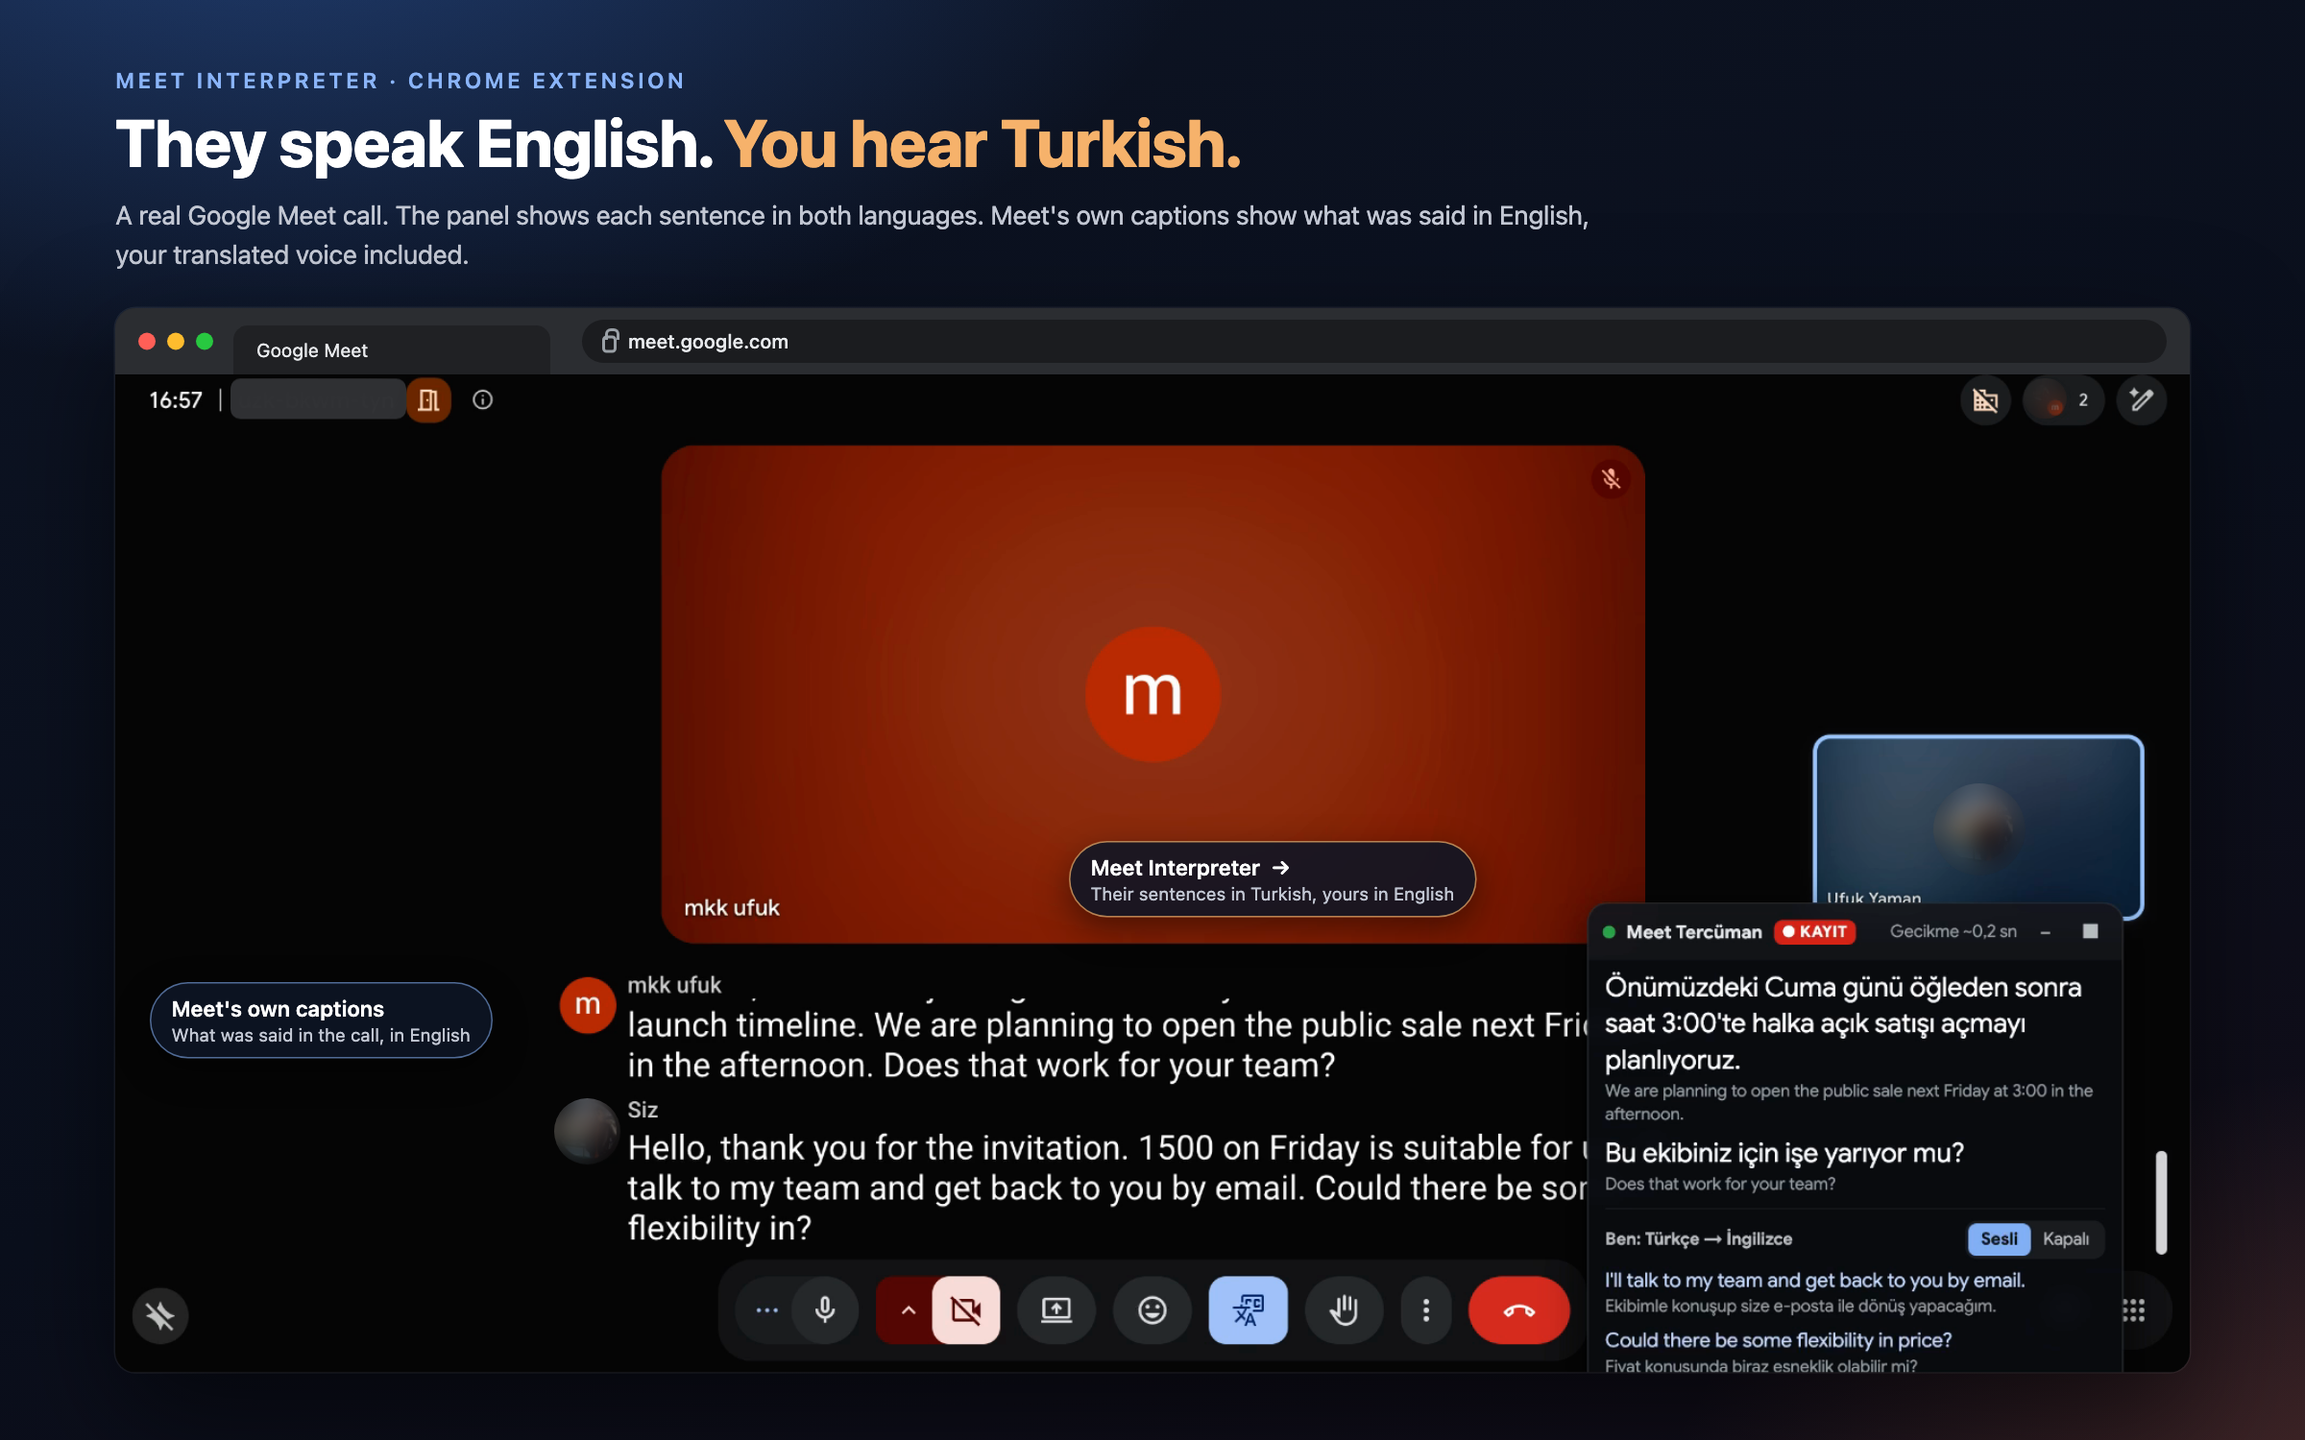
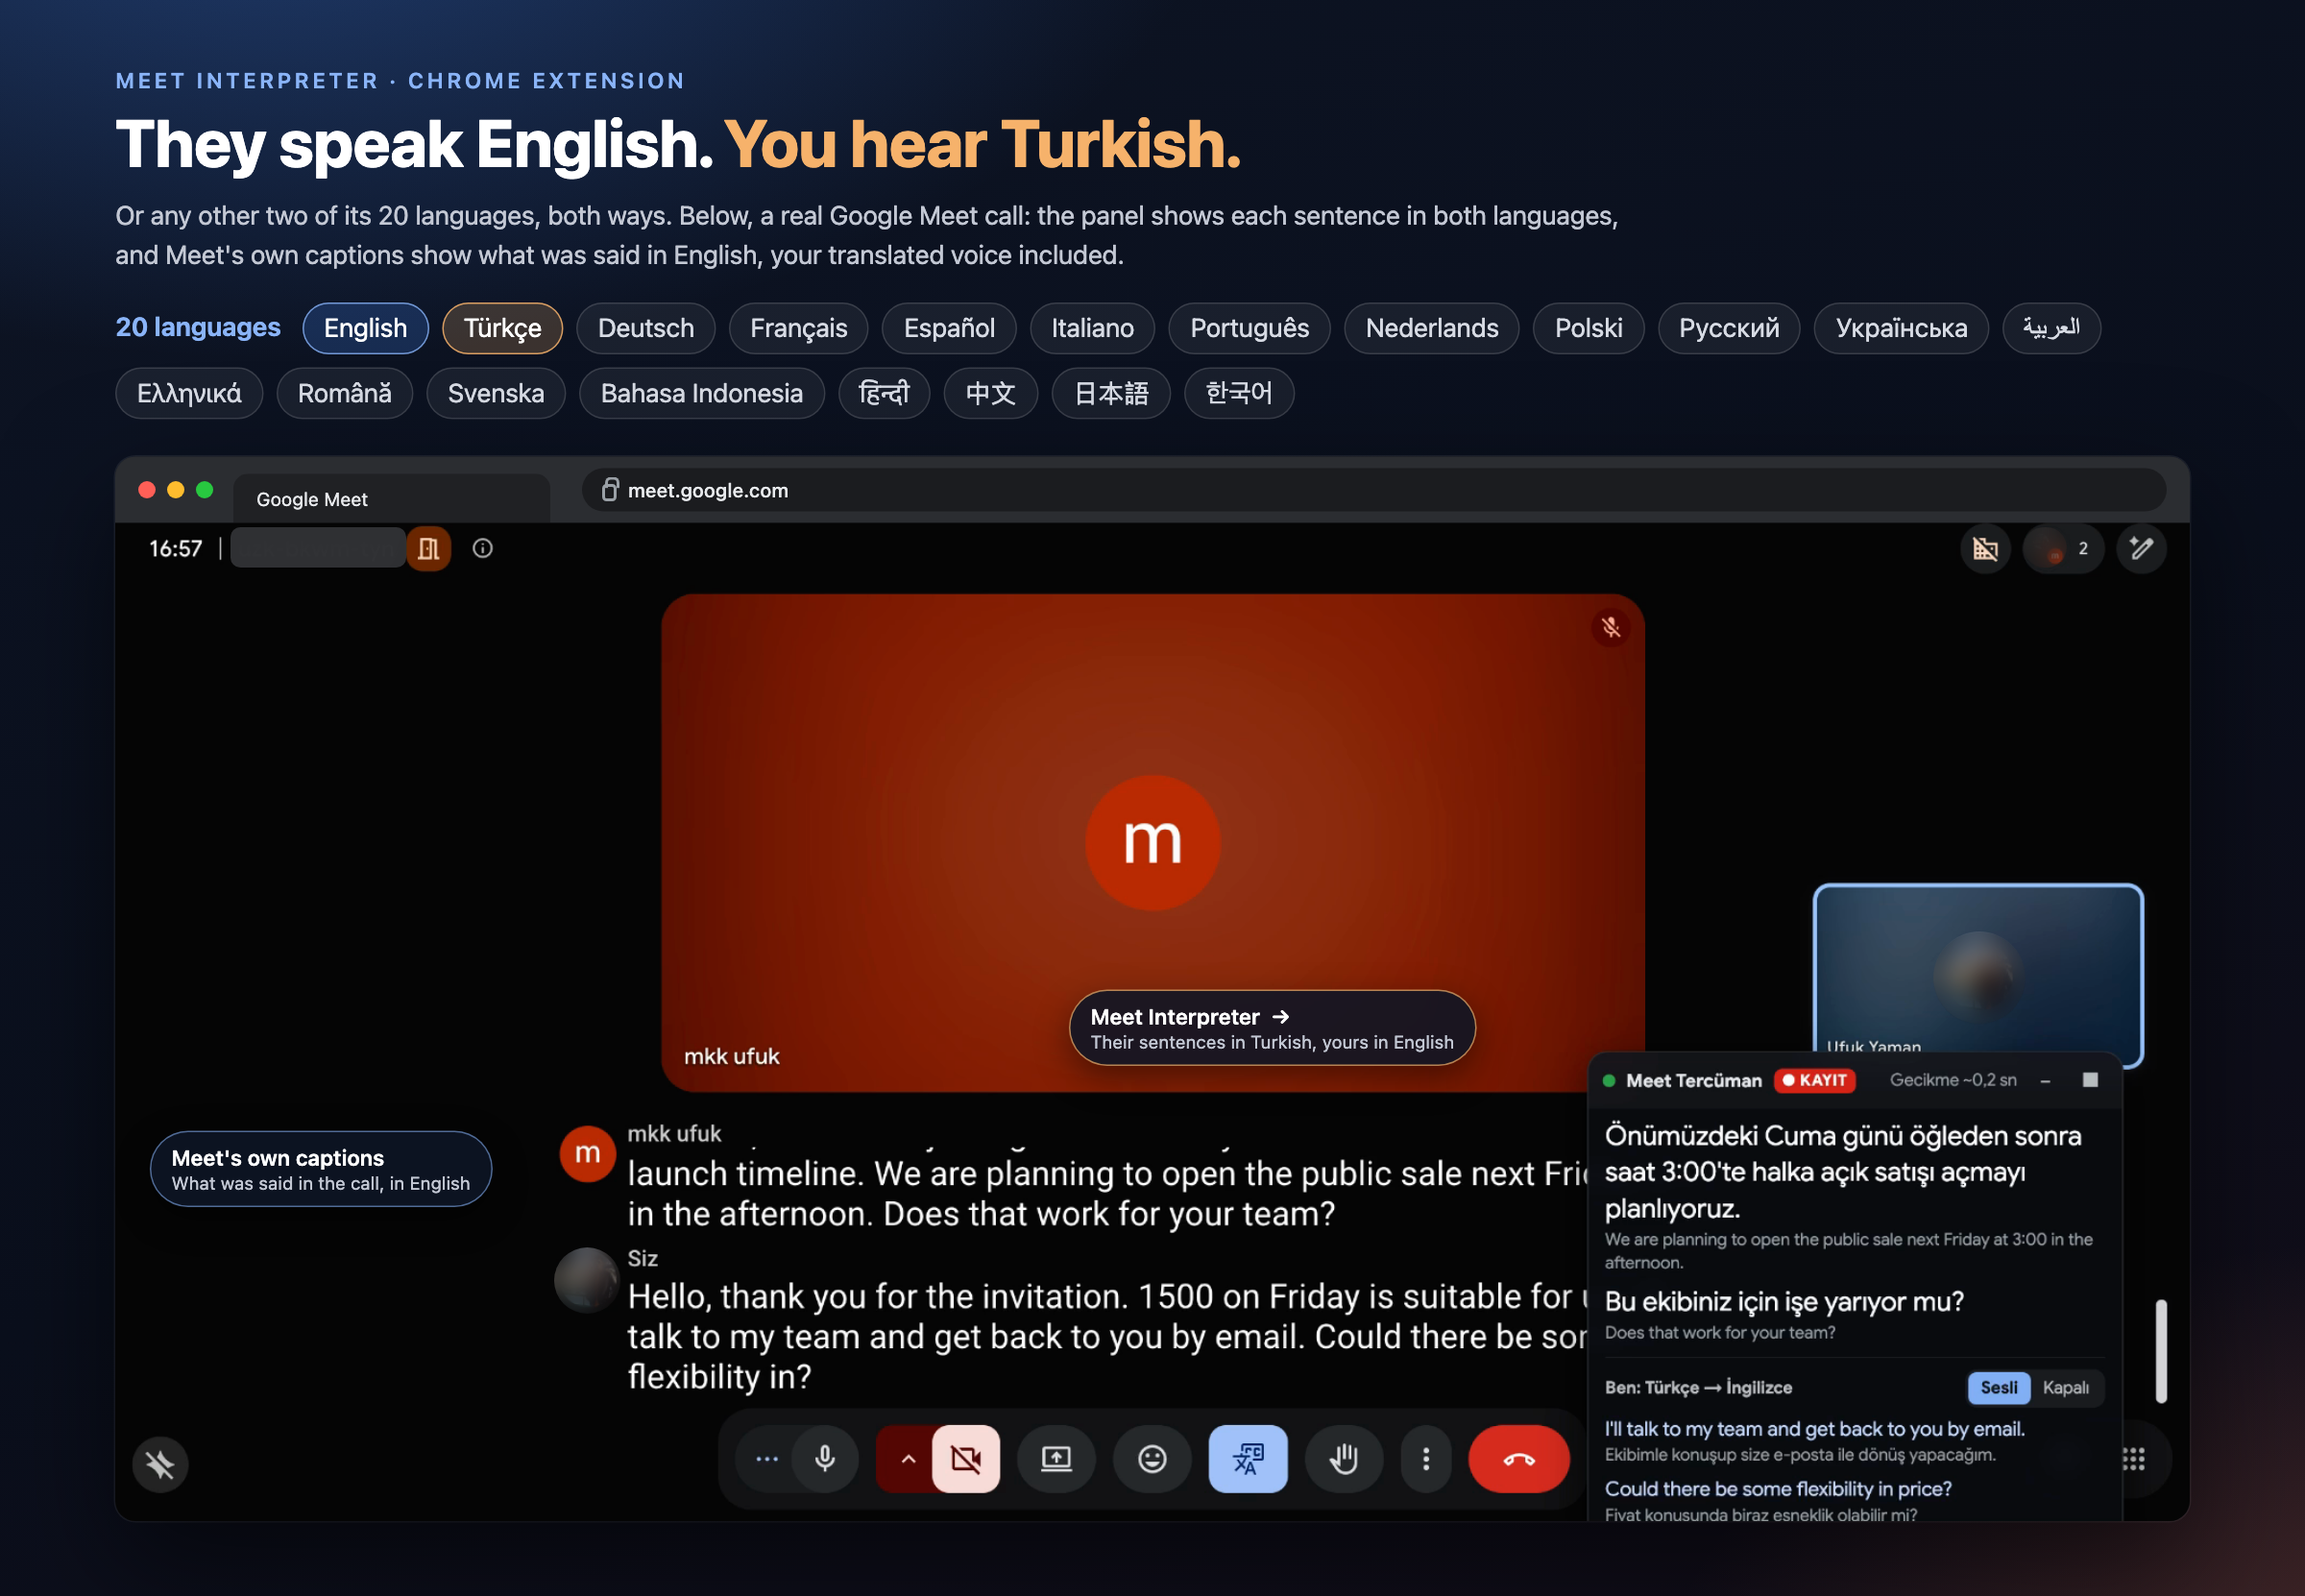
docs: install from a release zip, show the 20 languages, add the MIT license
The README and the setup guide start with the ready zip from Releases, so nobody needs Node to try it.
The intro, the hero image and the features name all 20 call languages, with English and Turkish as the example.
The badge row is gone. npm run zip packs dist into the release file.

diff --git a/README.md b/README.md
@@ -4,15 +4,10 @@
 
 ### Live two-way speech translation for Google Meet
 
-They speak English and you hear Turkish. You speak Turkish and they hear English, in your own voice. A Chrome extension with no backend: the keys stay in your browser.
-
-![Chrome](https://img.shields.io/badge/Chrome-MV3_extension-4285F4?style=flat-square&labelColor=0d1117&logo=googlechrome&logoColor=white)
-![Speech](https://img.shields.io/badge/Speech-ElevenLabs-ffffff?style=flat-square&labelColor=0d1117)
-![Translation](https://img.shields.io/badge/Translation-Claude_or_free-D97757?style=flat-square&labelColor=0d1117)
-![Tests](https://img.shields.io/badge/Tests-node_test_+_Playwright-2ea44f?style=flat-square&labelColor=0d1117)
+Any two of 20 languages, both ways. They speak English and you hear Turkish; you speak Turkish and they hear English, in your own voice. A Chrome extension with no backend: the keys stay in your browser.
 
 <table>
-  <tr><td><b>Languages</b></td><td>20, English and Turkish by default</td></tr>
+  <tr><td><b>Languages</b></td><td>20, any two of them; English and Turkish by default</td></tr>
   <tr><td><b>Modes</b></td><td>Voice, subtitles only or off, for each direction</td></tr>
   <tr><td><b>Delay</b></td><td>About 1.5 s after each sentence, measured in a real call</td></tr>
   <tr><td><b>Backend</b></td><td>None</td></tr>
@@ -29,6 +24,7 @@ They speak English and you hear Turkish. You speak Turkish and they hear English
 
 ## Features
 
+- Twenty languages, any two of them in either direction: English, Turkish, German, French, Spanish, Italian, Portuguese, Dutch, Polish, Russian, Ukrainian, Arabic, Greek, Romanian, Swedish, Indonesian, Hindi, Chinese, Japanese and Korean.
 - Listens to the call through Chrome tab capture and to you through your microphone, transcribes both sides with ElevenLabs Scribe v2 Realtime, translates with Claude (or for free, see below) and speaks the result with ElevenLabs text to speech.
 - Your translated voice goes into the call in place of your microphone. Meet keeps working as usual, and muting in Meet stops everything that would reach the call.
 - A mode for each direction: spoken translation, subtitles only (no speech credits used) or off, switchable mid-call from the popup or the panel on the page.
@@ -42,7 +38,7 @@ They speak English and you hear Turkish. You speak Turkish and they hear English
 - Settings changed mid-call apply at once, the call languages included. A service that stops answering is given up after a few seconds, so one stuck sentence never holds up the ones after it.
 
 > **Read this first.**
-> - The Turkish voice starts about 1.5 s after the other person finishes a sentence. 0.7 s of that is speech recognition waiting for silence to know the sentence ended. In a long turn, finished sentences are translated while the speaker keeps going. Settings can shorten the wait to 0.5 s, at the cost of a long sentence being split now and then.
+> - The translated voice starts about 1.5 s after the other person finishes a sentence. 0.7 s of that is speech recognition waiting for silence to know the sentence ended. In a long turn, finished sentences are translated while the speaker keeps going. Settings can shorten the wait to 0.5 s, at the cost of a long sentence being split now and then.
 > - Free translation through Chrome's built-in translator is literal: "saat üç" comes out as "15.00 on Friday". Claude gives natural sentences.
 > - Two Meet participants on the same computer garble each other's audio, because Meet's adaptive audio and Chrome's echo cancellation treat them as one room. Test with a second device or a second person.
 > - Tested in real Meet calls with two and three participants, and automatically in Chromium against a mock Meet call. Meet's page changes over time, so try a call before an important meeting.
@@ -92,9 +88,19 @@ Choose **Free** as the translation model in the settings and no Anthropic key is
 ## Requirements
 
 - Chrome 116 or newer (or another Chromium browser); 138 or newer for free translation without keys
-- Node.js 18 or newer, to build
+- Node.js 18 or newer, only to build from source
 - An ElevenLabs API key (voice cloning needs a paid plan), and an Anthropic API key unless you choose free translation
 - Headphones
+
+---
+
+## Install
+
+1. Download [meet-interpreter.zip](https://github.com/UfukNode/meet-interpreter/releases/latest/download/meet-interpreter.zip) from the latest release and unzip it.
+2. Open `chrome://extensions`, turn on Developer mode, choose **Load unpacked** and pick the unzipped `meet-interpreter` folder.
+3. The settings page opens by itself. The full walkthrough, in Turkish, is in [KURULUM.md](KURULUM.md).
+
+Keep the folder where it is: Chrome runs the extension from it. To update, replace the folder's contents with the new release and press reload on the extension.
 
 ---
 
@@ -117,7 +123,7 @@ npm run build
 Built dist/
 ```
 
-Open `chrome://extensions`, turn on Developer mode, choose **Load unpacked** and pick the `dist` folder. The settings page opens by itself; the full walkthrough, in Turkish, is in [KURULUM.md](KURULUM.md). After pulling changes, run `npm run build` again and press reload on the extension.
+Open `chrome://extensions`, turn on Developer mode, choose **Load unpacked** and pick the `dist` folder. After pulling changes, run `npm run build` again and press reload on the extension. `npm run zip` builds and packs `dist` into `meet-interpreter.zip`, the file a release carries.
 
 ---
 
@@ -156,3 +162,9 @@ node test/meet/group-call.mjs       # a four-person call with the real ElevenLab
 ## Costs
 
 The panel counts what a call uses and estimates the cost from list prices: Scribe v2 Realtime is $0.39 an hour per active direction, Flash v2.5 and v4 Turbo speech is $0.04 per 1,000 characters, and Claude is billed per token (Haiku 5.5 is the cheapest). Subtitles-only mode makes no speech at all, and free translation costs nothing. A direction turned off listens to nothing, and 30 seconds after the call ends the translation stops by itself.
+
+---
+
+## License
+
+[MIT](LICENSE)

diff --git a/KURULUM.md b/KURULUM.md
@@ -1,13 +1,13 @@
 # Meet Tercüman Kurulum
 
-Google Meet görüşmesinde karşı tarafı Türkçe duyarsın, o da seni İngilizce duyar. Bu rehber kurulumu ve ilk denemeyi adım adım anlatır.
+Google Meet görüşmesinde karşı tarafı kendi dilinde duyarsın, o da seni kendi dilinde duyar. 20 dil var, istediğin ikisini seçersin; bu rehber Türkçe ile İngilizce örneğini kullanır ve kurulumu, ilk denemeyi adım adım anlatır.
 
 ## Gereksinimler
 
 | Gereksinim | Açıklama |
 | --- | --- |
 | Chrome 116 veya üstü | Ya da Brave, Edge gibi Chromium tabanlı bir tarayıcı |
-| Node.js 18 veya üstü | Eklentiyi derlemek için, bir kez |
+| Node.js 18 veya üstü | Yalnızca kaynaktan derleyeceksen |
 | ElevenLabs API anahtarı | Ses tanıma ve ses üretimi. Ses klonlama için Starter veya üstü plan |
 | Anthropic API anahtarı | Çeviriyi Claude yapar. Hesapta biraz kredi olmalı. Ücretsiz çeviri seçersen gerekmez |
 | Kulaklık | Hoparlörden çıkan çeviri mikrofona geri girmesin diye |
@@ -19,21 +19,26 @@ Google Meet görüşmesinde karşı tarafı Türkçe duyarsın, o da seni İngil
 
 ## Kurulum
 
-1. İndir ve derle:
-   ```bash
-   git clone https://github.com/UfukNode/meet-interpreter.git
-   cd meet-interpreter
-   npm install
-   npm run build
-   ```
+1. GitHub sayfasında sağdaki **Releases** bölümünden son sürümü aç ve `meet-interpreter.zip` dosyasını indir (doğrudan bağlantı: [meet-interpreter.zip](https://github.com/UfukNode/meet-interpreter/releases/latest/download/meet-interpreter.zip)). İndirilenler klasöründe dosyaya çift tıkla: `meet-interpreter` klasörü çıkar.
 2. Chrome'da `chrome://extensions` adresini aç, sağ üstten **Geliştirici modu**nu aç.
-3. **Paketlenmemiş öğe yükle** düğmesine bas, `meet-interpreter` klasörünün içine gir ve `dist` klasörünü seç. `meet-interpreter` klasörünün kendisini seçersen Chrome manifest dosyasını bulamaz.
+3. **Paketlenmemiş öğe yükle** düğmesine bas ve `meet-interpreter` klasörünü seç. Klasörü silme ya da taşıma: Chrome eklentiyi oradan çalıştırır. Yeni sürüm çıkınca klasörün içini yeni ZIP'tekilerle değiştir ve eklentinin yenile düğmesine bas.
 4. Araç çubuğundaki yapboz simgesinden Meet Tercüman'ı sabitle.
 5. Arayüz İngilizce açılır. Türkçe için ayarlar sayfasının ya da açılır pencerenin sağ üstündeki **TR** düğmesine bas; bu rehberdeki düğme adları Türkçe arayüze göredir.
 6. Açılan ayarlar sayfasında (açılmazsa simgeye sağ tık, Seçenekler):
    1. İki anahtarı yapıştır ve **Anahtarları test et** de.
    2. **Mikrofon iznini ver** de ve izin ver.
    3. **Benim sesim** bölümünde metni sessiz bir odada, normal sesinle 1 ile 2 dakika arası oku, **Bu kayıttan sesimi oluştur** de, sonra **Dinle** ile kontrol et.
+
+### Kaynaktan derlemek istersen
+
+```bash
+git clone https://github.com/UfukNode/meet-interpreter.git
+cd meet-interpreter
+npm install
+npm run build
+```
+
+3. adımda `meet-interpreter` klasörünün içindeki `dist` klasörünü seç. Klasörün kendisini seçersen Chrome manifest dosyasını bulamaz.
 
 ## Ücretsiz çeviri
 
@@ -80,7 +85,7 @@ Görüşmede eklenti en kaliteli servisle başlar (DeepL, sonra Mistral, sonra G
 
 | Belirti | Çözüm |
 | --- | --- |
-| "Manifest dosyası eksik veya okunamıyor" | Proje klasörü seçilmiş. **İptal** de, **Paketlenmemiş öğe yükle** ile `meet-interpreter` içindeki `dist` klasörünü seç. |
+| "Manifest dosyası eksik veya okunamıyor" | Yanlış klasör seçilmiş. **İptal** de, **Paketlenmemiş öğe yükle** ile içinde `manifest.json` olan klasörü seç: ZIP'ten çıkan `meet-interpreter` klasörü ya da kaynaktan derlediysen `dist` klasörü. |
 | "Ücretsiz çeviri ilk kullanımda hazırlanmalı" | Ayarlar > Çeviri'de "Ücretsiz çeviriyi hazırla"ya bas ya da "Çeviriyi başlat"a tekrar bas. |
 | "Meet sekmesini bir kez yenileyin" | Eklenti, sekme açıldıktan sonra kurulmuş. F5 ile yenile. |
 | "Eklentinin mikrofon izni yok" | Ayarlar, Mikrofon iznini ver. |
